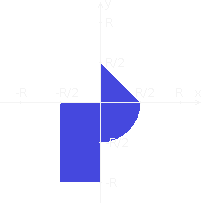
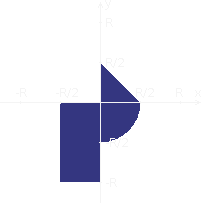
подправил цвета, валидацию

Changed region(s): [[0.2927, 0.3251, 0.7024, 0.9163]]

diff --git a/js/theme_changer.js b/js/theme_changer.js
@@ -1,8 +1,8 @@
-function setTheme(){
-    if (document.cookie.split(';').filter(function(item) {
+function setTheme() {
+    if (document.cookie.split(';').filter(function (item) {
         return item.trim().indexOf('Theme=') == 0
     }).length) {
-        if (document.cookie.split(';').filter(function(item) {
+        if (document.cookie.split(';').filter(function (item) {
             return item.indexOf('Theme=Dark') >= 0
         }).length) {
             changeOnDark();
@@ -10,18 +10,22 @@ function setTheme(){
     }
 }
 
-function changeOnLight(){
+function changeOnLight() {
     document.cookie = "Theme=Light; path=/; expires=Tue, 19 Jan 2038 03:14:07 GMT";
-    document.querySelector("#css").setAttribute("href", "css/light.css")
-    document.querySelector("#area").setAttribute("src", "img/areas.png")
-    document.querySelector("#themebutton").setAttribute("onclick", "changeOnDark()")
-    document.querySelector("#lgbt").setAttribute("src", "img/anim.gif")
+    document.querySelector("#css_main").setAttribute("href", "css/light/main.css");
+    document.querySelector("#css_checkboxes").setAttribute("href", "css/light/custom-checkboxes.css");
+    document.querySelector("#css_buttons").setAttribute("href", "css/light/buttons.css");
+    document.querySelector("#area").setAttribute("src", "img/areas.png");
+    document.querySelector("#themebutton").setAttribute("onclick", "changeOnDark()");
+    document.querySelector("#lgbt").setAttribute("src", "img/anim.gif");
 }
 
-function changeOnDark(){
+function changeOnDark() {
     document.cookie = "Theme=Dark; path=/; expires=Tue, 19 Jan 2038 03:14:07 GMT";
-    document.querySelector("#css").setAttribute("href", "css/dark.css")
-    document.querySelector("#area").setAttribute("src", "img/areas_dark.png")
-    document.querySelector("#themebutton").setAttribute("onclick", "changeOnLight()")
-    document.querySelector("#lgbt").setAttribute("src", "img/anim_dark.gif")
+    document.querySelector("#css_main").setAttribute("href", "css/dark/main.css");
+    document.querySelector("#css_checkboxes").setAttribute("href", "css/dark/custom-checkboxes.css");
+    document.querySelector("#css_buttons").setAttribute("href", "css/dark/buttons.css");
+    document.querySelector("#area").setAttribute("src", "img/areas_dark.png");
+    document.querySelector("#themebutton").setAttribute("onclick", "changeOnLight()");
+    document.querySelector("#lgbt").setAttribute("src", "img/anim_dark.gif");
 }

diff --git a/js/validate_and_submit.js b/js/validate_and_submit.js
@@ -1,4 +1,4 @@
-let x , y , r, tableContent=new Array;
+let x , y , r, dataStorage=new Array;
 
 
 function valAndSub() {
@@ -27,12 +27,12 @@ function valAndSub() {
 
 function onAnswer(ans) {
     var parsedAns = JSON.parse(ans);
-    tableContent.push(parsedAns);
+    dataStorage.push(parsedAns);
     var output = "<table border=\"1\" class=\"resultTable\"><tr><td class=\"cellNum\">№</td><td class=\"cellNum\">X</td><td class=\"cellNum\">Y</td><td class=\"cellNum\">R</td><td class=\"cellRes\">Result</td><td class=\"cellTime\">Working time</td><td class=\"cellTime\">Current time</td></tr>\n";
-    for (var i = 0; i<tableContent.length; i++){
+    for (var i = 0; i<dataStorage.length; i++){
         var num = i+1;
         output+= "<tr><td>"+num+"</td>";
-        var m = tableContent[i];
+        var m = dataStorage[i];
         for(var j=0; j<m.length; j++){
             output+= "<td>"+m[j]+"</td>";
         }
@@ -50,9 +50,11 @@ function validate() {
 
 function valid_y() {
     let rawY = document.getElementById('y_value').value;
+    let ymin = -5;
+    let ymax = 3;
     try {
         let value_y = parseFloat(rawY);
-        if (value_y > -5 && value_y < 3) {
+        if (value_y > ymin && value_y < ymax) {
             y = value_y;
             return true;
         } else {
@@ -140,7 +142,7 @@ function valid_R() {
 }
 
 function getMarkedXBoxes() {
-    var allCheckboxes = document.getElementsByClassName('x_checkboxes');
+    var allCheckboxes = document.querySelectorAll('input[type="checkbox"]');
     var markedBoxes = [];
     for (var i = 0; i < allCheckboxes.length; i++) {
         if (allCheckboxes[i].checked) {

diff --git a/css/light/main.css b/css/light/main.css
@@ -1,13 +1,6 @@
-body{
-    background: #14193cde;
-    background-repeat: no-repeat;
-    background-size: 777px 480px;
-    color: #adbac7;
-    vertical-align: 300px;
-    background-attachment: fixed;
-    }
-
-    /* new */
+body {
+    background: #cfe8f9
+}
 
 
 .hat {
@@ -35,7 +28,7 @@ body{
 }
 
 .Input_Block {
-    background-color: #535369c0;
+    background-color: #ffffffc2;
     border-radius: 35px;
     margin: 0 auto;
     margin-top: 5%;
@@ -53,12 +46,8 @@ body{
 
 .data>button {
     position: absolute;
-    width: 20%;
+    width: 30%;
     text-align: center;
-}
-
-.data>p {
-    text-align: left;
 }
 
 .label {
@@ -77,7 +66,7 @@ body{
     position: absolute;
     text-align: center;
     font-size: 16px;
-    background-color: #535369c0;
+    background-color: #ffffff;
 }
 
 .cellNum {
@@ -95,9 +84,15 @@ body{
 #themebutton {
     position: fixed;
     top: 50%;
-    background-image: url(../img/dark.png);
+    background-image: url(../../img/light.png);
     background-size: contain;
     width: 40px;
     height: 40px;
     border-radius: 15%;
+}
+
+#themebutton:hover {
+    width: 45px;
+    height: 45px;
+  transition-duration: 0.2s;
 }

diff --git a/css/dark/main.css b/css/dark/main.css
@@ -1,6 +1,11 @@
-body {
-    background: #cfe8f9
-}
+body{
+    background: #292d4c;
+    background-repeat: no-repeat;
+    background-size: 777px 480px;
+    color: #adbac7;
+    vertical-align: 300px;
+    background-attachment: fixed;
+    }
 
 
 .hat {
@@ -28,7 +33,7 @@ body {
 }
 
 .Input_Block {
-    background-color: #ffffffc2;
+    background-color: #535369c0;
     border-radius: 35px;
     margin: 0 auto;
     margin-top: 5%;
@@ -46,8 +51,12 @@ body {
 
 .data>button {
     position: absolute;
-    width: 20%;
+    width: 30%;
     text-align: center;
+}
+
+.data>p {
+    text-align: left;
 }
 
 .label {
@@ -66,7 +75,7 @@ body {
     position: absolute;
     text-align: center;
     font-size: 16px;
-    background-color: #ffffff;
+    background-color: #535369c0;
 }
 
 .cellNum {
@@ -84,9 +93,15 @@ body {
 #themebutton {
     position: fixed;
     top: 50%;
-    background-image: url(../img/light.png);
+    background-image: url(../../img/dark.png);
     background-size: contain;
     width: 40px;
     height: 40px;
     border-radius: 15%;
+}
+
+#themebutton:hover {
+    width: 45px;
+    height: 45px;
+  transition-duration: 0.2s;
 }

diff --git a/css/light/custom-checkboxes.css b/css/light/custom-checkboxes.css
@@ -1,0 +1,49 @@
+.x_checkboxes-negative {
+    opacity: 0;
+  }
+
+  .x_checkboxes-negative+label::before {
+    content: '\2713';
+    text-align: center;
+    color: #7b7b7b00;
+    line-height: 1em;
+    width: 0.7em;
+    height: 0.7em;
+    border: 2px inset #4548de;
+    border-radius: 0.25em;
+    margin: 0.25em;
+    display: inline-block;
+  }
+
+  .x_checkboxes-negative:checked+label::before {
+    color: #000000;
+    border: 2px inset #4548de;
+  }
+
+
+  .x_checkboxes {
+    opacity: 0;
+  }
+
+  .x_checkboxes+label::before {
+    content: '\2713';
+    text-align: center;
+    color: #7b7b7b00;
+    line-height: 1em;
+    width: 0.7em;
+    height: 0.7em;
+    border: 2px inset #4548de;
+    border-radius: 0.25em;
+    margin: 0.25em;
+    margin-right: 0.58em;
+    display: inline-block;
+  }
+
+  .x_checkboxes:checked+label::before {
+    color: #000000;
+    border: 2px inset #4548de;
+  }
+  
+  label {
+    cursor: pointer;
+  }

diff --git a/page.html b/page.html
@@ -1,9 +1,9 @@
 <!DOCTYPE html>
 <html lang="en">
 
-<link rel="stylesheet" type="text/css" href="css/buttons.css">
-<link rel="stylesheet" type="text/css" href="css/custom-checkboxes.css">
-<link id="css" rel="stylesheet" type="text/css" href="css/light.css">
+<link id="css_main" rel="stylesheet" type="text/css" href="css/light/main.css">
+<link id="css_buttons" rel="stylesheet" type="text/css" href="css/light/buttons.css">
+<link id="css_checkboxes" rel="stylesheet" type="text/css" href="css/light/custom-checkboxes.css">
 
 <head>
     <meta charset="UTF-8">
@@ -84,10 +84,9 @@
 
                 <!-- &nbsp  -->
             </p>
-            </p>
 
             <!-- Y block -->
-            <p>y: <input type="text" size="4" maxlength="8" name="y" id="y_value">
+            <p>y: &nbsp <input type="text" size="4" maxlength="8" name="y" id="y_value">
             </p>
 
             <!-- R block -->

diff --git a/css/dark/custom-checkboxes.css b/css/dark/custom-checkboxes.css
@@ -9,15 +9,15 @@
     line-height: 1em;
     width: 0.7em;
     height: 0.7em;
-    border: 2px inset #4548de;
+    border: 2px inset #343680;
     border-radius: 0.25em;
     margin: 0.25em;
     display: inline-block;
   }
 
   .x_checkboxes-negative:checked+label::before {
-    color: #4548de;
-    border: 2px inset #4548de;
+    color: #adbac7;
+    border: 2px inset #343680;
   }
 
 
@@ -32,7 +32,7 @@
     line-height: 1em;
     width: 0.7em;
     height: 0.7em;
-    border: 2px inset #4548de;
+    border: 2px inset #343680;
     border-radius: 0.25em;
     margin: 0.25em;
     margin-right: 0.58em;
@@ -40,6 +40,10 @@
   }
 
   .x_checkboxes:checked+label::before {
-    color: #4548de;
-    border: 2px inset #4548de;
+    color: #adbac7;
+    border: 2px inset #343680;
+  }
+  
+  label {
+    cursor: pointer;
   }

diff --git a/css/dark/buttons.css b/css/dark/buttons.css
@@ -1,0 +1,35 @@
+.Rbutton {
+    background-color: #343680; 
+  border: 1px solid #000000b8;
+  color: white;
+  padding: 7px 7px;
+  text-align: center;
+  text-decoration: none;
+  display: inline-block;
+  font-size: 12px;
+  border-radius: 7px;
+  transition-duration: 0.4s;
+}
+
+.Rbutton:hover {
+    background-color: #d3e4f8;
+    color: black;
+  }
+
+  .submitButton {
+    background-color: #343680; 
+  border: 1px solid #000000b8;
+  color: white;
+  padding: 7px 7px;
+  text-align: center;
+  text-decoration: none;
+  display: inline-block;
+  font-size: 12px;
+  border-radius: 7px;
+  transition-duration: 0.4s;
+  }
+
+  .submitButton:hover {
+    background-color: #8fbff6; 
+    color: black;
+  }
